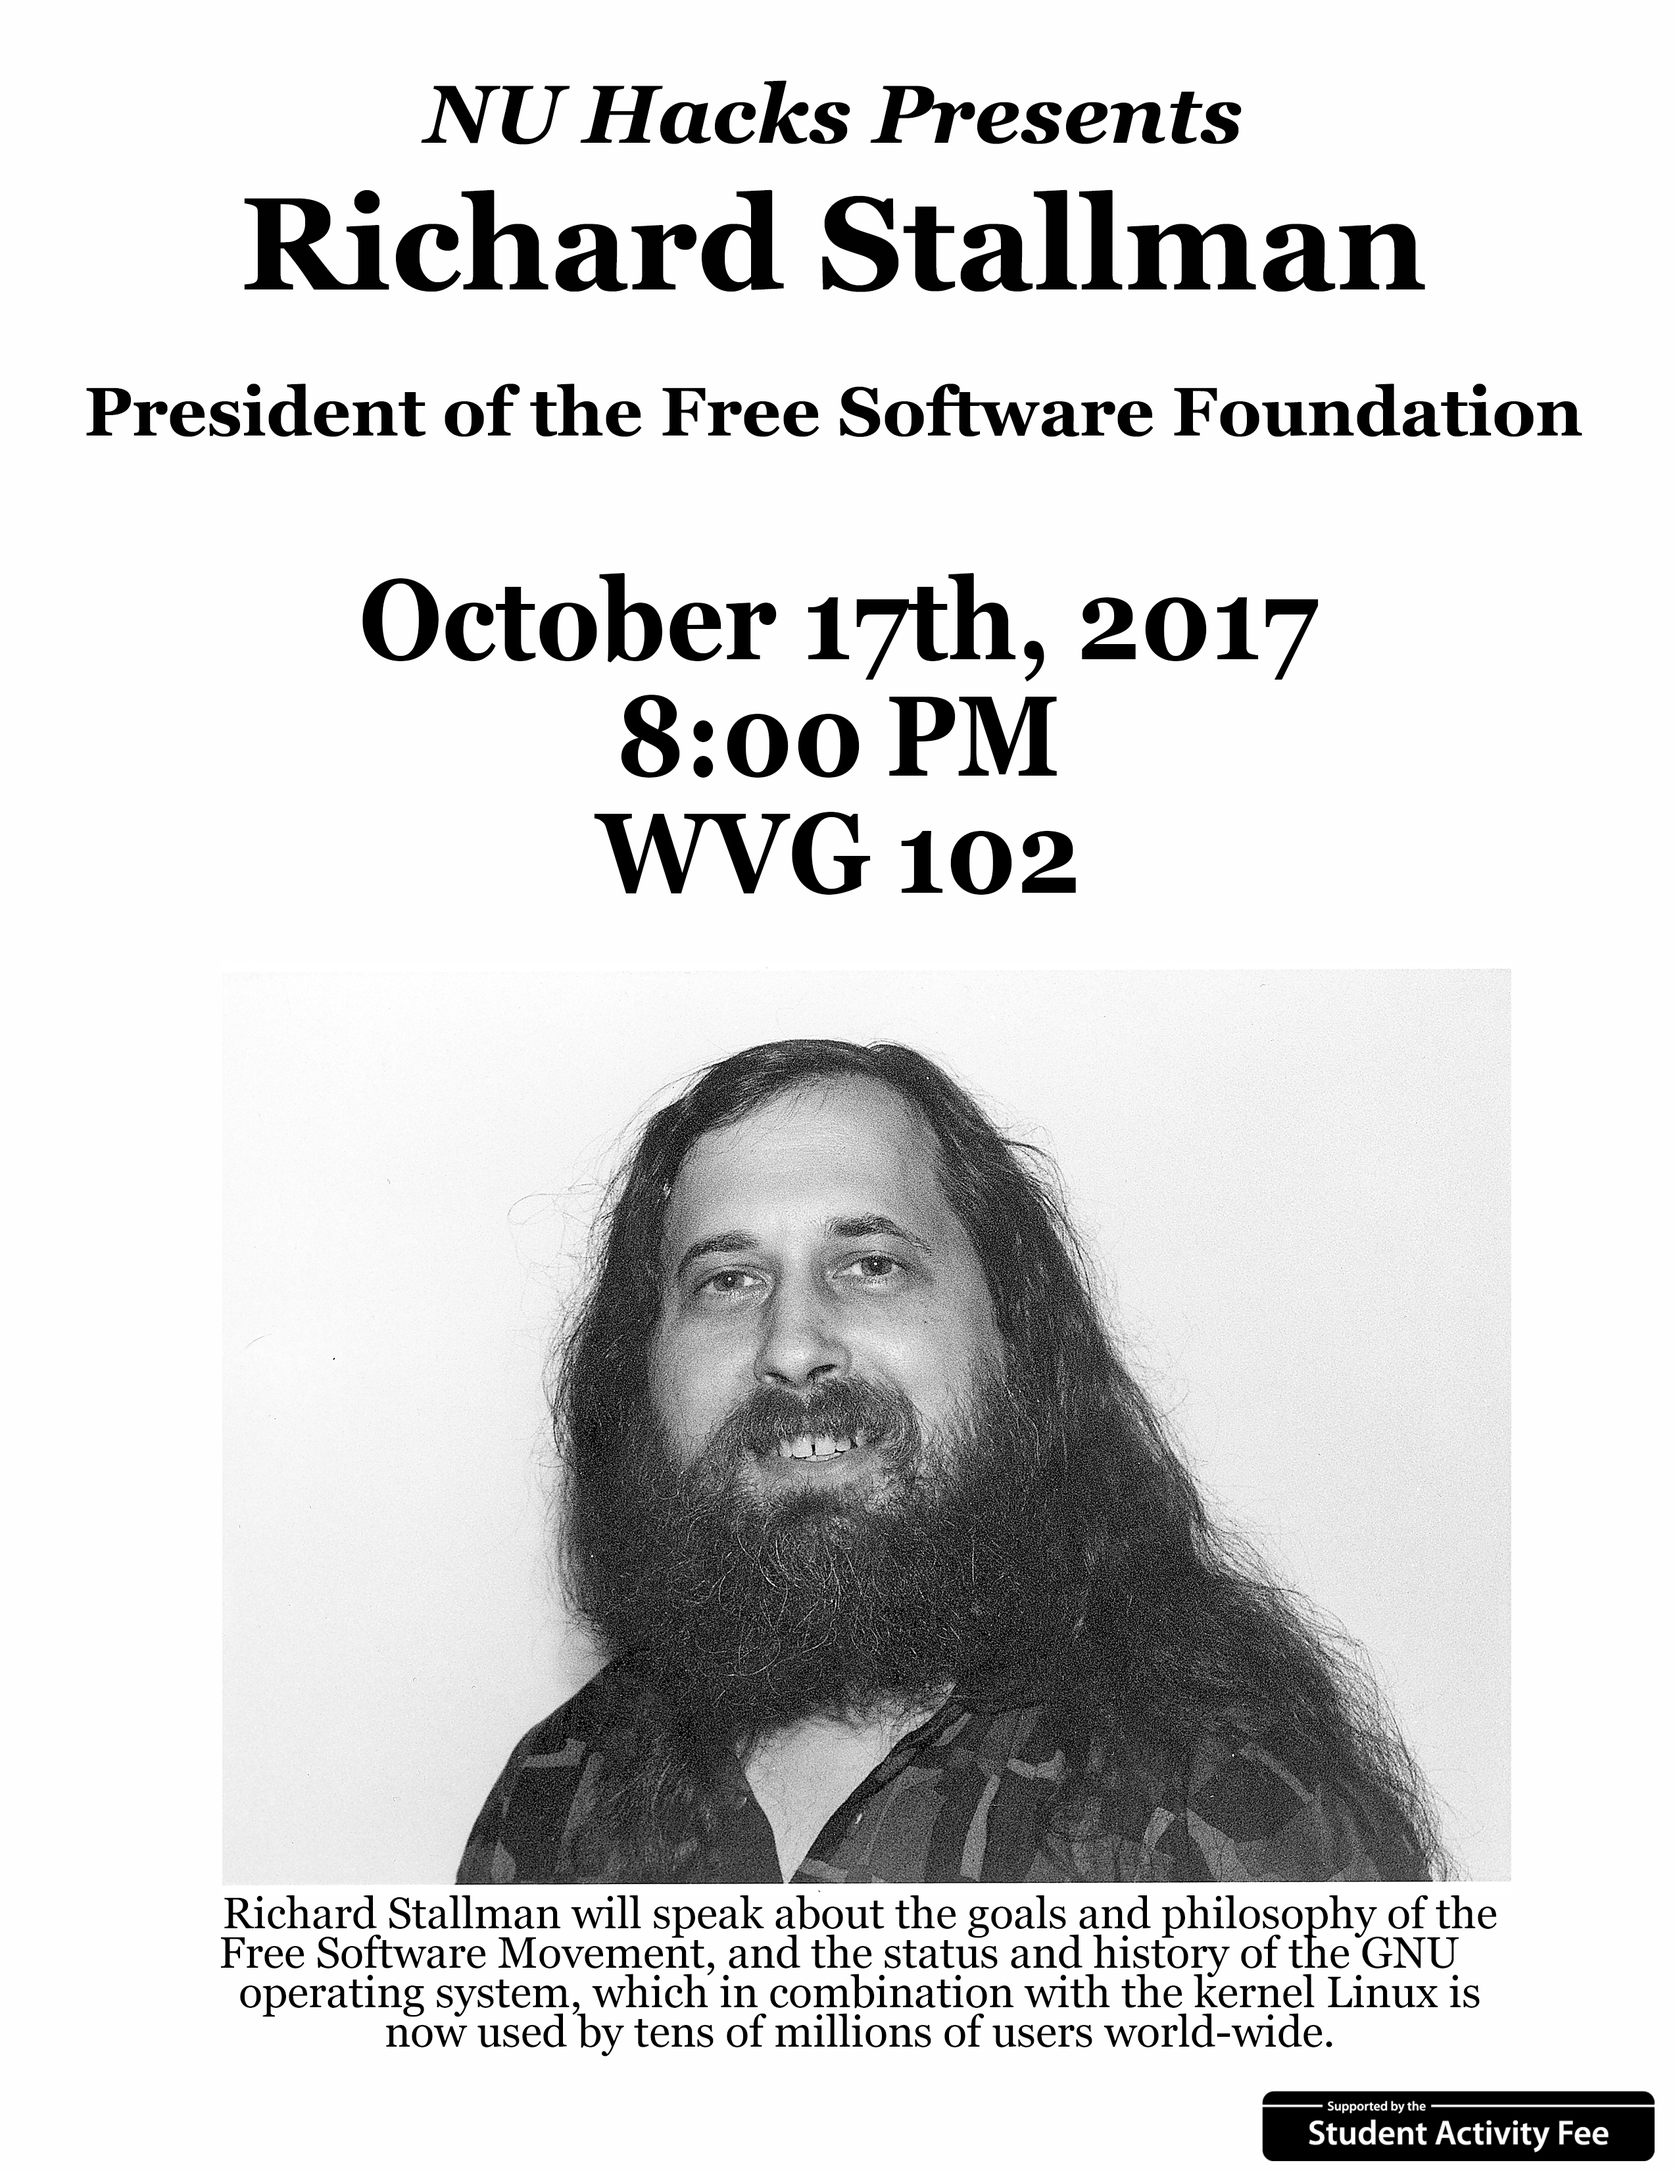
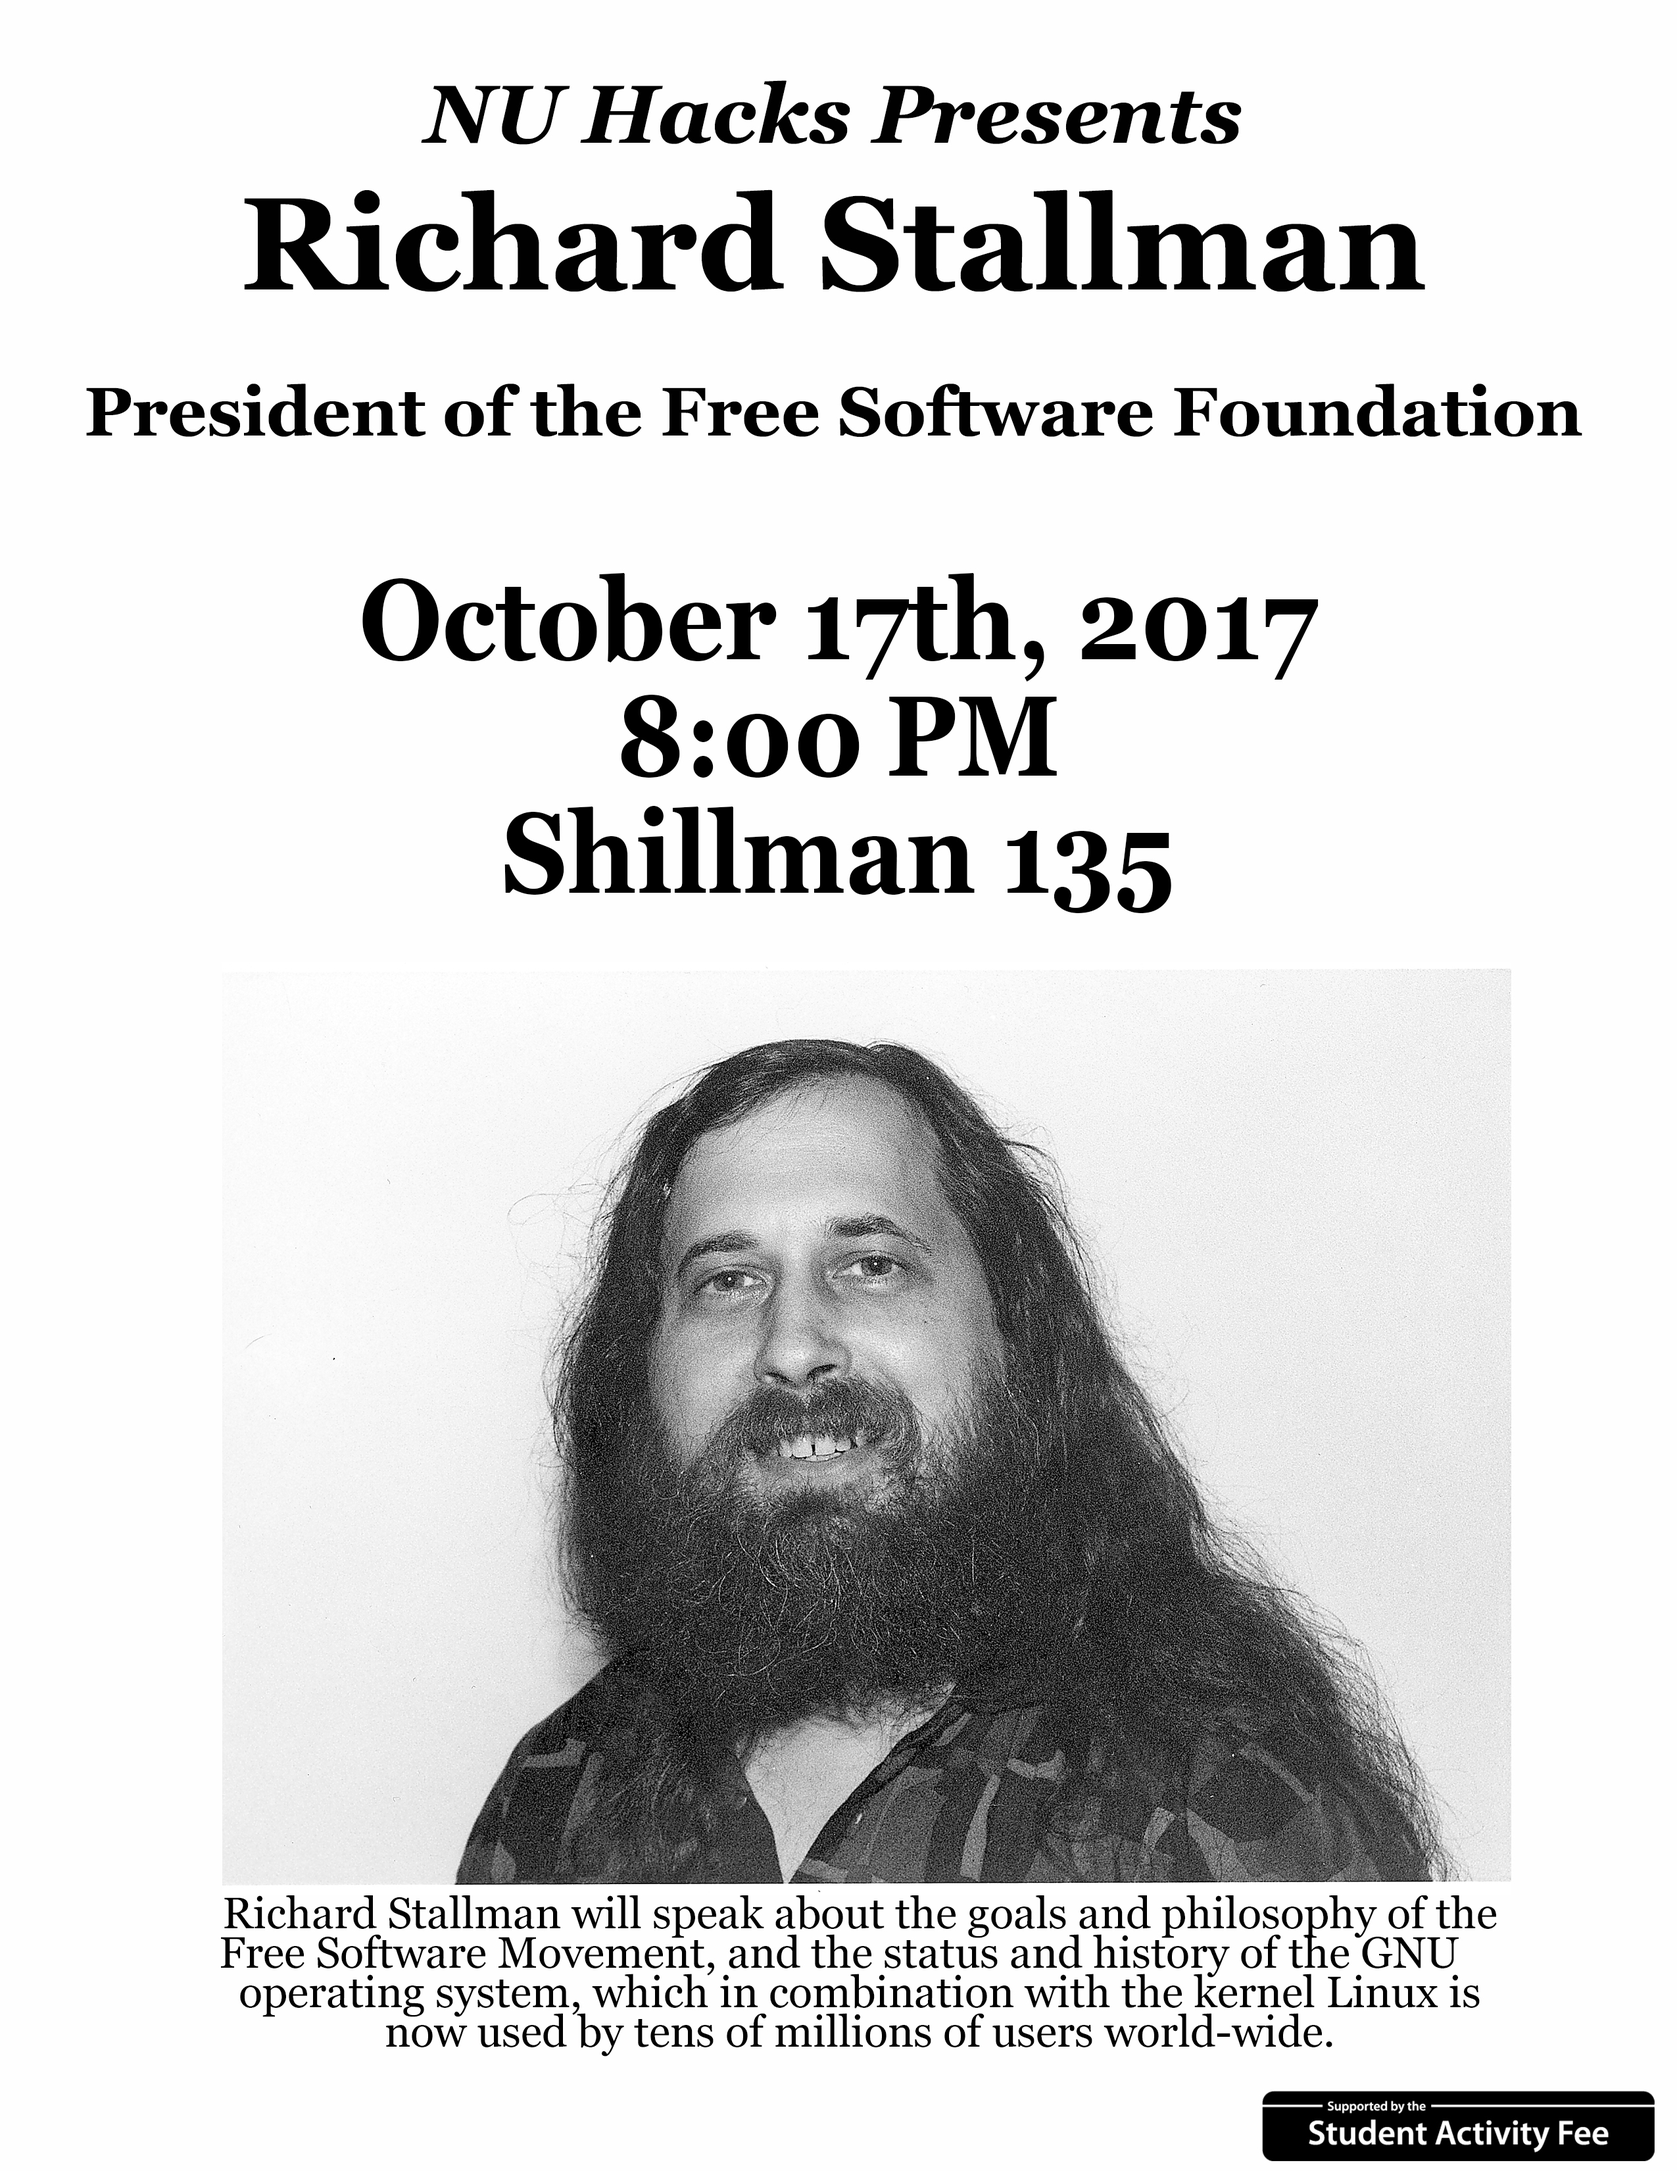
Updated the room

Changed region(s): [[0.2788, 0.3745, 0.7125, 0.437]]

diff --git a/rms.html b/rms.html
@@ -21,7 +21,7 @@
         </p>
         <img src="http://www.stallman.org/rms-bw.jpeg" width="70%" height="70%">
         <p>
-            October 17th, 2017 8:00 PM <a href="https://www.google.com/maps/place/West+Village+G/@42.338185,-71.0922502,19.77z/data=!4m5!3m4!1s0x89e37a21f1bc9735:0x655e0c46cdbdf694!8m2!3d42.3382722!4d-71.0919855">WVG 102</a>
+            October 17th, 2017 8:00 PM <a href="https://goo.gl/maps/pXNieQkgLGz">Shillman 135!</a>
         </p>
         <p>
                 Richard Stallman will speak about the goals and philosophy of the Free Software Movement, and the status and history of the GNU
